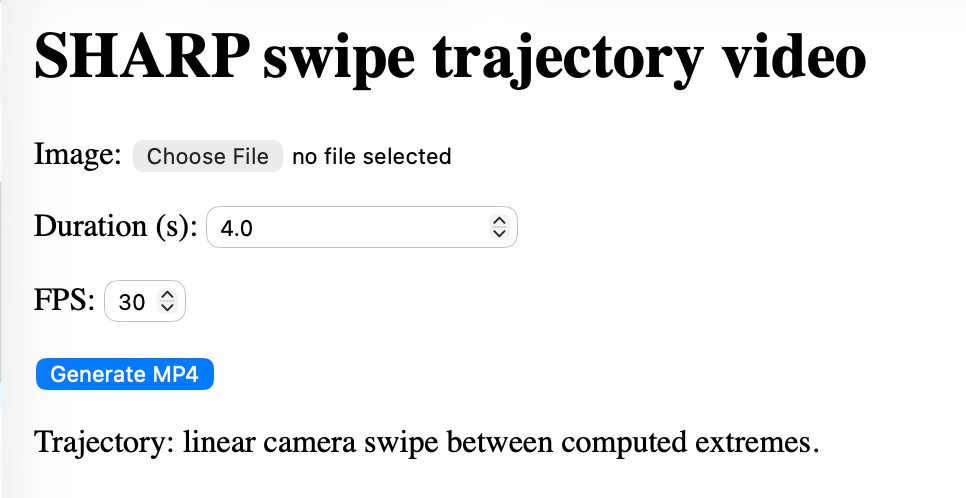
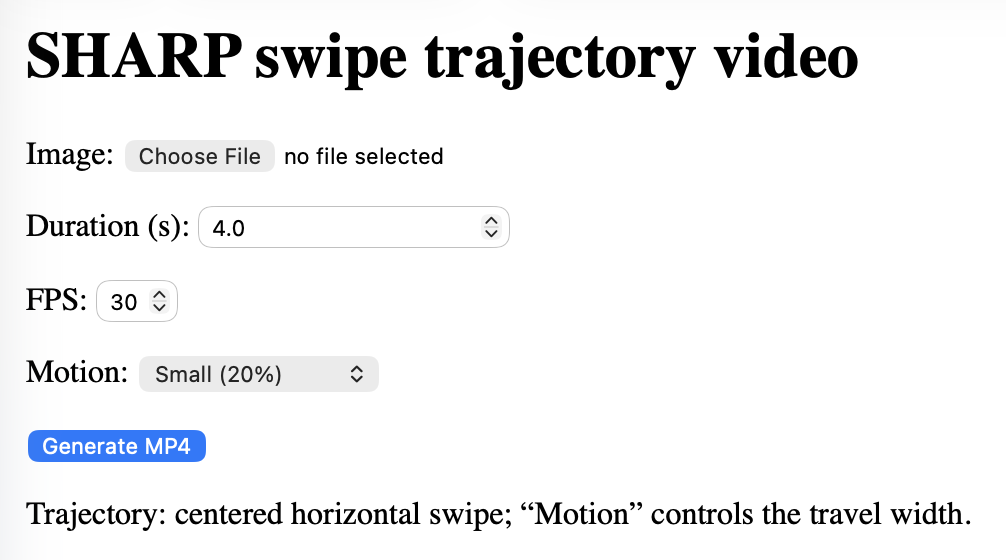
Add redesigned motion rendering and motion scale control to video generation and update HTML form

diff --git a/src/sharp/web/sharp_pan.py b/src/sharp/web/sharp_pan.py
@@ -123,6 +123,31 @@ def _resize_max_side(image_rgb: np.ndarray, max_side: int) -> np.ndarray:
     return np.asarray(img, dtype=np.uint8)
 
 
+def _resize_max_side_with_scale(image_rgb: np.ndarray, max_side: int) -> tuple[np.ndarray, float]:
+    """Resize while returning the uniform scale factor applied.
+
+    Returns (resized_image_rgb, scale). `scale` is 1.0 when no resize occurs.
+    """
+    if max_side <= 0:
+        return image_rgb, 1.0
+    height, width = image_rgb.shape[:2]
+    longest = max(height, width)
+    if longest <= max_side:
+        return image_rgb, 1.0
+    scale = max_side / float(longest)
+    new_w = max(2, int(round(width * scale)))
+    new_h = max(2, int(round(height * scale)))
+
+    img = Image.fromarray(image_rgb)
+    resample_bicubic = getattr(
+        getattr(Image, "Resampling", None),
+        "BICUBIC",
+        getattr(Image, "BICUBIC", 3),
+    )
+    img = img.resize((new_w, new_h), resample=resample_bicubic)
+    return np.asarray(img, dtype=np.uint8), float(scale)
+
+
 @torch.no_grad()
 def _predict_gaussians(image_rgb: np.ndarray, f_px: float, device: torch.device) -> Gaussians3D:
     # This mirrors `sharp.cli.predict.predict_image`.
@@ -130,7 +155,8 @@ def _predict_gaussians(image_rgb: np.ndarray, f_px: float, device: torch.device)
 
     image_pt = torch.from_numpy(image_rgb.copy()).float().to(device).permute(2, 0, 1) / 255.0
     _, height, width = image_pt.shape
-    disparity_factor = torch.tensor([f_px / width]).float().to(device)
+
+    disparity_factor = torch.tensor([f_px / width], device=device, dtype=torch.float32)
 
     image_resized_pt = F.interpolate(
         image_pt[None],
@@ -221,39 +247,97 @@ def _render_depth_parallax_swipe_mp4(
     (monodepth sub-network) to compute a depth field, then warps the image along
     a left↔right trajectory.
     """
-    # Keep memory bounded on MPS/CPU.
-    image_rgb = _resize_max_side(image_rgb, max_side=1024)
-    image_rgb = _ensure_even_hw_uint8_rgb(image_rgb)
+    # Keep memory bounded on MPS/CPU and keep intrinsics consistent.
+    resized, scale = _resize_max_side_with_scale(image_rgb, max_side=1024)
+    f_px = float(f_px) * float(scale)
+    resized_w = int(resized.shape[1])
+    image_rgb = _ensure_even_hw_uint8_rgb(resized)
+    f_px = float(f_px) * (float(image_rgb.shape[1]) / max(1.0, float(resized_w)))
 
     image_pt, depth = _predict_depth_for_warp(image_rgb, f_px, device)
     _, _, height, width = image_pt.shape
 
-    # Compute a normalized inverse-depth map (near -> +1, far -> -1).
-    inv_depth = 1.0 / depth.clamp(min=1e-3)
-
-    # Use cheap quantiles from a downsampled map (computed on CPU for portability).
-    inv_small = F.interpolate(inv_depth, size=(128, 128), mode="bilinear", align_corners=True)
+    # Normalize inverse-depth to [0,1] so far shifts ~0 and near shifts ~1.
+    inv = (1.0 / depth.clamp(min=1e-3))[0, 0]
+    inv_small = F.interpolate(inv[None, None], size=(128, 128), mode="bilinear", align_corners=True)
     inv_cpu = inv_small.detach().float().cpu().flatten()
-    q05 = torch.quantile(inv_cpu, 0.05).item()
-    q50 = torch.quantile(inv_cpu, 0.50).item()
-    q95 = torch.quantile(inv_cpu, 0.95).item()
-    scale = max(1e-6, (q95 - q05))
+    q05 = float(torch.quantile(inv_cpu, 0.05).item())
+    q95 = float(torch.quantile(inv_cpu, 0.95).item())
+    scale_inv = max(1e-6, (q95 - q05))
+    inv01 = ((inv - q05) / scale_inv).clamp(0.0, 1.0)
 
-    inv_norm = (inv_depth - q50) / scale
-    inv_norm = inv_norm.clamp(min=-1.0, max=1.0)
+    # Edge-aware stabilization of inverse-depth.
+    # Minor monodepth noise around strong RGB edges can cause "zippering" in the
+    # plane assignment, which shows up as thin cracks/ghosting during parallax.
+    lum = (0.299 * image_pt[0, 0] + 0.587 * image_pt[0, 1] + 0.114 * image_pt[0, 2]).to(
+        torch.float32
+    )
+    sobel_x = torch.tensor(
+        [[-1.0, 0.0, 1.0], [-2.0, 0.0, 2.0], [-1.0, 0.0, 1.0]],
+        device=device,
+        dtype=torch.float32,
+    )[None, None]
+    sobel_y = torch.tensor(
+        [[-1.0, -2.0, -1.0], [0.0, 0.0, 0.0], [1.0, 2.0, 1.0]],
+        device=device,
+        dtype=torch.float32,
+    )[None, None]
+    gx = F.conv2d(lum[None, None], sobel_x, padding=1)
+    gy = F.conv2d(lum[None, None], sobel_y, padding=1)
+    edge = (gx.abs() + gy.abs())[0, 0]
+    edge_small = F.interpolate(edge[None, None], size=(128, 128), mode="bilinear", align_corners=True)
+    edge_cpu = edge_small.detach().float().cpu().flatten()
+    e90 = float(torch.quantile(edge_cpu, 0.90).item())
+    edge01 = (edge / max(1e-6, e90)).clamp(0.0, 1.0)
+    # Smooth more in flat regions, less across edges.
+    # Aggressive settings help suppress residual cracking/"black trails".
+    for _ in range(4):
+        inv01_blur = F.avg_pool2d(inv01[None, None], kernel_size=9, stride=1, padding=4)[0, 0]
+        alpha = 0.60 * (1.0 - edge01).pow(2.0)
+        inv01 = inv01 * (1.0 - alpha) + inv01_blur * alpha
 
-    # Pixel shift map; max_disparity ~ fraction of width.
-    max_shift_px = float(max_disparity) * float(width)
-    shift_px = inv_norm * max_shift_px
+    # Build depth planes (MPI) and composite far->near.
+    # Use a *two-plane* soft assignment in inverse-depth space. This reduces
+    # edge tearing vs. hard one-hot binning while keeping the layer model.
+    num_planes = 32
+    pos = inv01 * float(num_planes - 1)
+    idx0 = torch.floor(pos).to(torch.int64).clamp(0, num_planes - 1)
+    idx1 = (idx0 + 1).clamp(0, num_planes - 1)
+    frac = (pos - idx0.to(pos.dtype)).clamp(0.0, 1.0)
+    w0 = (1.0 - frac).to(dtype=torch.float32)
+    w1 = frac.to(dtype=torch.float32)
 
-    # Base sampling grid.
-    ys = torch.linspace(-1.0, 1.0, height, device=device)
-    xs = torch.linspace(-1.0, 1.0, width, device=device)
-    grid_y, grid_x = torch.meshgrid(ys, xs, indexing="ij")
-    base_grid = torch.stack([grid_x, grid_y], dim=-1)[None]  # (1, H, W, 2)
+    one_hot0 = F.one_hot(idx0, num_classes=num_planes).permute(2, 0, 1).to(dtype=torch.float32)
+    one_hot1 = F.one_hot(idx1, num_classes=num_planes).permute(2, 0, 1).to(dtype=torch.float32)
+    plane_a = (one_hot0 * w0[None, :, :] + one_hot1 * w1[None, :, :])[:, None, :, :]  # (L,1,H,W)
+    plane_rgb = image_pt[0][None].to(torch.float32) * plane_a  # premultiplied
 
+    # Travel restriction (20%..80%) to avoid extreme ends.
     frame_count = max(2, int(round(duration_s * fps)))
-    ts = torch.linspace(-1.0, 1.0, frame_count)
+    ts = torch.linspace(-0.6, 0.6, frame_count, device=device, dtype=torch.float32)
+
+    # Pixel shift amplitude.
+    max_shift_px = float(max_disparity) * float(width)
+
+    # Avoid tearing at both ends by rendering into a replicate-padded canvas and
+    # cropping back. This avoids relying on grid_sample padding_mode="border",
+    # which isn't consistently supported on MPS.
+    max_abs_t = 0.6
+    pad_x = int(np.ceil(max_abs_t * max_shift_px)) + 2
+    pad_y = 2
+    height_p = height + 2 * pad_y
+    width_p = width + 2 * pad_x
+    plane_a_p = F.pad(plane_a, (pad_x, pad_x, pad_y, pad_y), mode="replicate")
+    plane_rgb_p = F.pad(plane_rgb, (pad_x, pad_x, pad_y, pad_y), mode="replicate")
+
+    # Base sampling grid (padded canvas).
+    ys = torch.linspace(-1.0, 1.0, height_p, device=device)
+    xs = torch.linspace(-1.0, 1.0, width_p, device=device)
+    grid_y, grid_x = torch.meshgrid(ys, xs, indexing="ij")
+    base_grid = torch.stack([grid_x, grid_y], dim=-1)[None]  # (1,Hp,Wp,2)
+
+    # Diffusion kernel to fill cracks/holes without using the original frame.
+    kernel = torch.ones((1, 1, 5, 5), device=device, dtype=torch.float32)
 
     with tempfile.NamedTemporaryFile(suffix=".mp4", delete=False) as tmp:
         output_path = Path(tmp.name)
@@ -265,22 +349,79 @@ def _render_depth_parallax_swipe_mp4(
             codec="libx264",
             pixelformat="yuv420p",
             quality=8,
+            macro_block_size=1,
         )
         try:
             for t in ts:
-                # Normalize pixel shift into [-1,1] space for grid_sample.
-                x_shift = (2.0 * float(t) * shift_px) / max(1.0, float(width - 1))
-                grid = base_grid.clone()
-                # Keep sampling inside bounds for MPS compatibility.
-                grid[..., 0] = (grid[..., 0] + x_shift[:, 0, :, :]).clamp(-1.0, 1.0)
-                warped = F.grid_sample(
-                    image_pt,
-                    grid,
-                    mode="bilinear",
-                    padding_mode="zeros",
-                    align_corners=True,
+                out_rgb = torch.zeros((1, 3, height_p, width_p), device=device, dtype=torch.float32)
+                out_a = torch.zeros((1, 1, height_p, width_p), device=device, dtype=torch.float32)
+
+                for li in range(num_planes):
+                    center01 = float(li) / max(1.0, float(num_planes - 1))
+                    shift_px = center01 * float(t) * max_shift_px
+                    x_shift = (2.0 * shift_px) / max(1.0, float(width_p - 1))
+                    grid = base_grid.clone()
+                    grid[..., 0] = grid[..., 0] + x_shift
+
+                    # Soft alpha only to unpremultiply (avoid dark fringes).
+                    a_soft = F.grid_sample(
+                        plane_a_p[li : li + 1],
+                        grid,
+                        mode="bilinear",
+                        padding_mode="zeros",
+                        align_corners=True,
+                    )
+                    rgb_premul = F.grid_sample(
+                        plane_rgb_p[li : li + 1],
+                        grid,
+                        mode="bilinear",
+                        padding_mode="zeros",
+                        align_corners=True,
+                    )
+
+                    # Premultiplied-alpha compositing. Avoiding per-layer unpremultiply
+                    # removes division noise that shows up as jagged "rips" at strong
+                    # depth discontinuities.
+                    a = a_soft.clamp(0.0, 1.0)
+                    rgb = rgb_premul
+
+                    out_rgb = out_rgb + (1.0 - out_a) * rgb
+                    out_a = out_a + (1.0 - out_a) * a
+
+                # Crop back to original frame size.
+                out_rgb = out_rgb[:, :, pad_y : pad_y + height, pad_x : pad_x + width]
+                out_a = out_a[:, :, pad_y : pad_y + height, pad_x : pad_x + width]
+
+                # Diffuse-fill tiny holes in the final unpremultiplied image.
+                img = out_rgb / out_a.clamp(min=1e-4)
+                # Treat low-alpha pixels as holes to avoid amplifying tiny alpha via
+                # unpremultiply (which can look like thin black cracks / black trails).
+                m = (out_a > 0.20).to(torch.float32)
+
+                # De-pepper: sometimes you get isolated dark speckles near soft edges
+                # where alpha is non-zero but unreliable. Detect those and treat them
+                # as holes so the diffusion fill overwrites them.
+                lum = (0.299 * img[:, 0:1] + 0.587 * img[:, 1:2] + 0.114 * img[:, 2:3]).clamp(0.0, 1.0)
+                lum_mean = F.avg_pool2d(lum, kernel_size=3, stride=1, padding=1)
+                speckle = (
+                    (m > 0.5)
+                    & (out_a < 0.90)
+                    & (lum < (0.25 * lum_mean))
+                    & (lum_mean > 0.06)
                 )
-                frame = (warped[0].permute(1, 2, 0) * 255.0).clamp(0, 255).to(torch.uint8)
+                m = torch.where(speckle, torch.zeros_like(m), m)
+
+                for _ in range(6):
+                    if float(m.mean().item()) > 0.999:
+                        break
+                    sum_rgb = F.conv2d(img * m, kernel.expand(3, 1, 5, 5), padding=2, groups=3)
+                    cnt = F.conv2d(m, kernel, padding=2)
+                    fill = sum_rgb / cnt.clamp(min=1.0)
+                    fill_mask = (cnt > 0.0).to(dtype=torch.float32)
+                    img = torch.where(m.bool(), img, fill)
+                    m = torch.where(m.bool(), m, fill_mask)
+
+                frame = (img[0].permute(1, 2, 0) * 255.0).clamp(0, 255).to(torch.uint8)
                 frame_np = frame.detach().cpu().numpy()
                 frame_np = _ensure_even_hw_uint8_rgb(frame_np)
                 writer.append_data(frame_np)
@@ -298,6 +439,7 @@ def generate_sharp_swipe_mp4(
     duration_s: float = 4.0,
     fps: int = 30,
     max_disparity: float = 0.08,
+    motion_scale: float = 0.20,
 ) -> bytes:
     """Generate a model-based swipe (horizontal pan) MP4.
 
@@ -307,6 +449,12 @@ def generate_sharp_swipe_mp4(
         raise ValueError("duration_s must be > 0")
     if fps <= 0:
         raise ValueError("fps must be > 0")
+
+    # Scale the overall swipe motion (centered) while keeping the rendering logic intact.
+    # 1.0 = full motion, 0.1 = 10% of the motion, etc.
+    if motion_scale <= 0:
+        raise ValueError("motion_scale must be > 0")
+    max_disparity = float(max_disparity) * float(motion_scale)
 
     image_rgb, f_px = _load_upload_rgb_and_fpx(image_bytes)
     image_rgb = _ensure_even_hw_uint8_rgb(image_rgb)

diff --git a/src/sharp/web/app.py b/src/sharp/web/app.py
@@ -27,9 +27,19 @@ HTML_INDEX = """<!doctype html>
         <p>
           <label>FPS: <input type=\"number\" name=\"fps\" value=\"30\" step=\"1\" min=\"1\" max=\"60\" /></label>
         </p>
+        <p>
+          <label>Motion:</label>
+          <select name=\"motion_scale\">
+            <option value=\"0.10\">Very small (10%)</option>
+            <option value=\"0.20\" selected>Small (20%)</option>
+            <option value=\"0.30\">Medium (30%)</option>
+            <option value=\"0.50\">Large (50%)</option>
+            <option value=\"1.00\">Full (100%)</option>
+          </select>
+        </p>
         <button type=\"submit\">Generate MP4</button>
       </form>
-      <p>Trajectory: linear camera swipe between computed extremes.</p>
+      <p>Trajectory: centered horizontal swipe; “Motion” controls the travel width.</p>
     </main>
   </body>
 </html>
@@ -63,9 +73,15 @@ def create_app():
         image: UploadFile = File(...),
         duration_s: float = Form(4.0),
         fps: int = Form(30),
+        motion_scale: float = Form(0.20),
     ):
         image_bytes = await image.read()
-        video_bytes = generate_sharp_swipe_mp4(image_bytes, duration_s=duration_s, fps=fps)
+        video_bytes = generate_sharp_swipe_mp4(
+            image_bytes,
+            duration_s=duration_s,
+            fps=fps,
+            motion_scale=motion_scale,
+        )
 
         headers = {"Content-Disposition": "attachment; filename=pan.mp4"}
         return Response(content=video_bytes, media_type="video/mp4", headers=headers)
